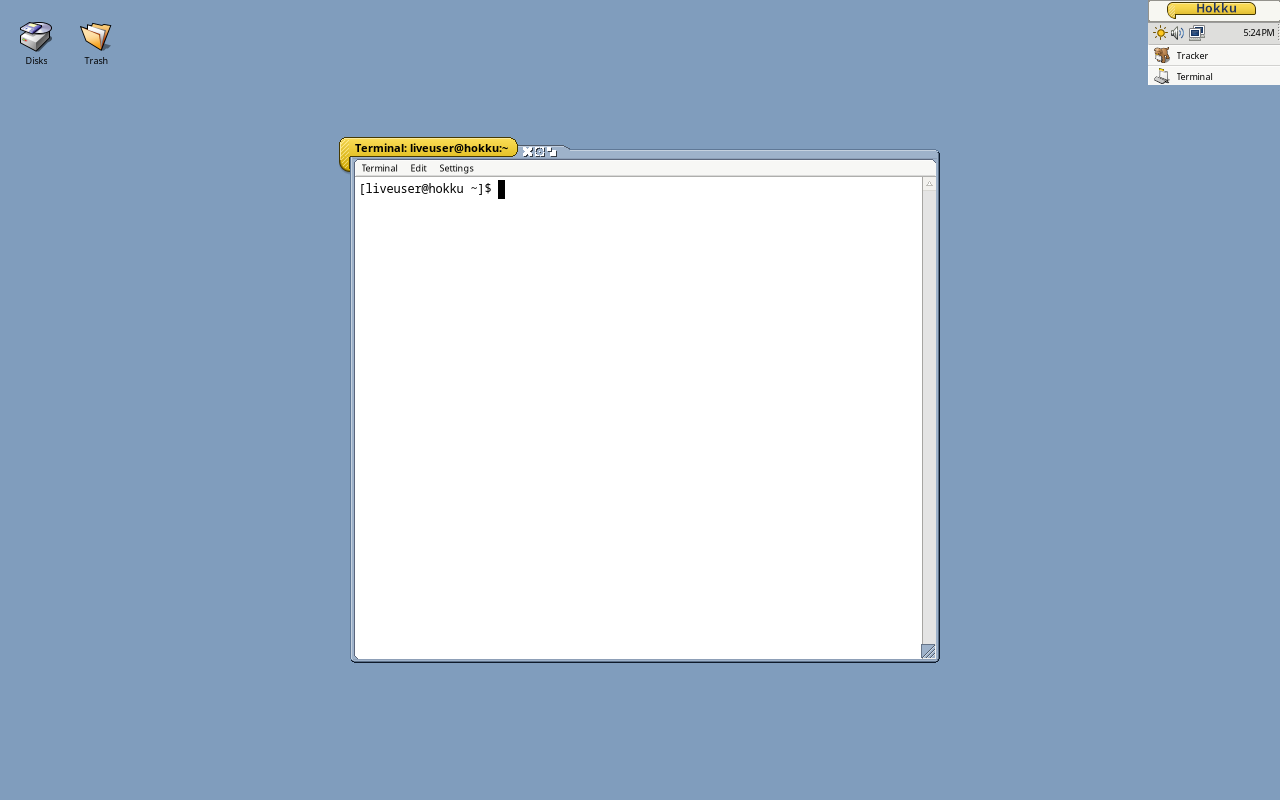
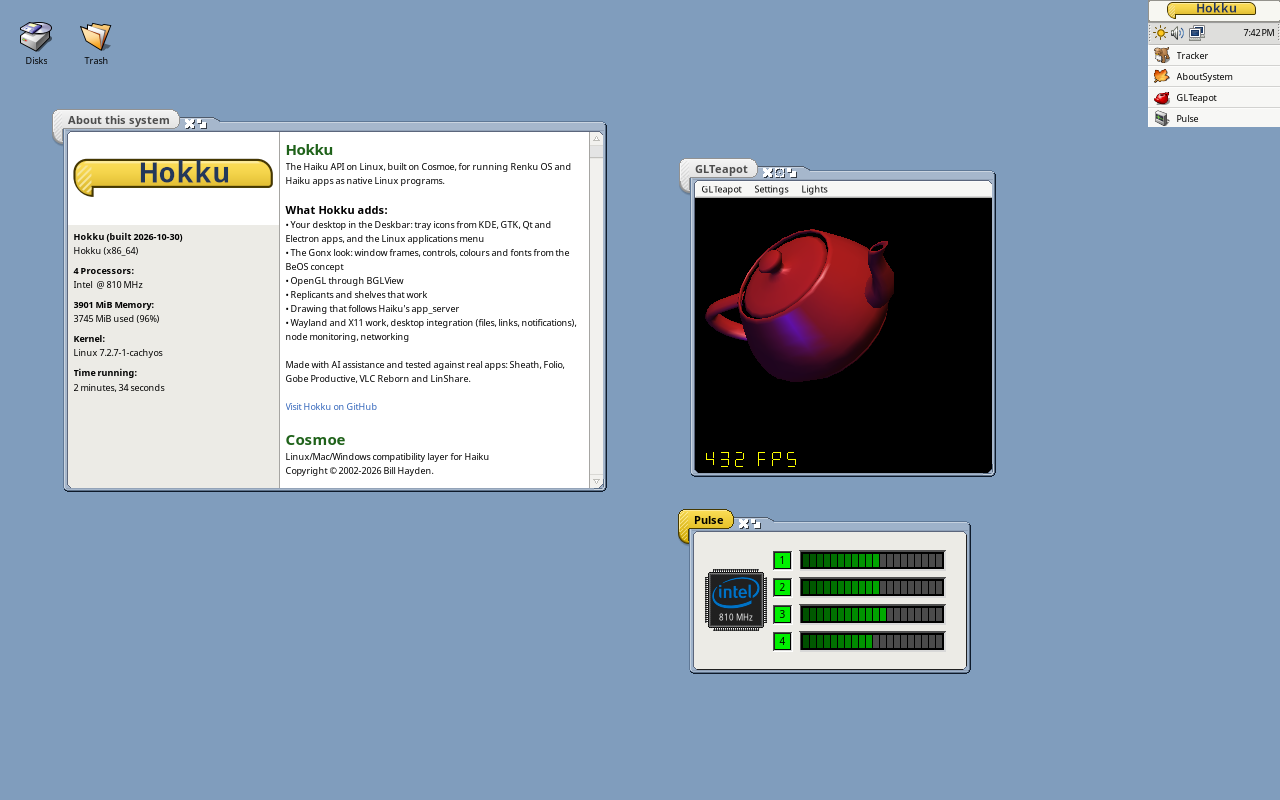
README: the desktop shot with About, GLTeapot and Pulse

diff --git a/README.md b/README.md
@@ -21,7 +21,7 @@ Not affiliated with or endorsed by CachyOS.
 
 From the 1.0 (Icefell) ISO, in QEMU at 1280x800.
 
-![The live desktop: Disks and Trash on the Tracker desktop, a Terminal, and the Deskbar in the top right corner with the brightness, volume and network icons in its tray](docs/screenshots/desktop.png)
+![The desktop: About this system, GLTeapot spinning its red teapot at over 400 frames per second, and Pulse showing the four CPUs; Disks and Trash on the Tracker desktop, and the Deskbar in the top right corner with the brightness, volume and network icons in its tray](docs/screenshots/desktop.png)
 
 | | |
 |---|---|
